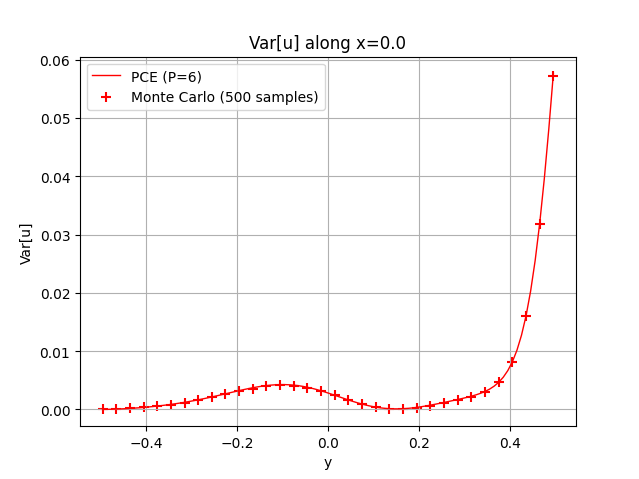
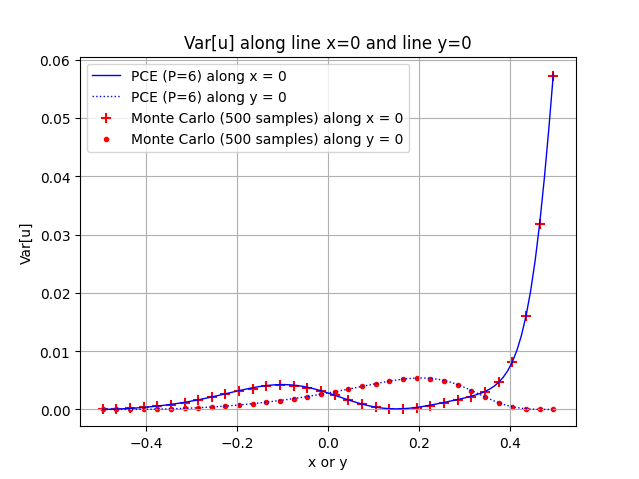
backup

diff --git a/pce-lid-cavity/show_result.py b/pce-lid-cavity/show_result.py
@@ -8,69 +8,100 @@ mc_df = pd.read_csv('data/mc-statistics.csv')
 
 points = pce_df[['x', 'y']].values
 
-x_plot = 0.0
-y_line = np.linspace(pce_df['y'].min(), pce_df['y'].max(), 100)
-x_line = np.full_like(y_line, x_plot)
-plot_points = np.column_stack((x_line, y_line))
+x_plot = 0
+y_plot = 0
+vy = np.linspace(pce_df['y'].min(), pce_df['y'].max(), 100)
+vx = np.full_like(vy, x_plot)
+vline = np.column_stack((vx, vy))
+hx = np.linspace(pce_df['x'].min(), pce_df['x'].max(), 100)
+hy = np.full_like(vx, y_plot)
+hline = np.column_stack((hx, hy))
 
-pce_u_mean = pce_df['u_mean'].values
-pce_u_mean_along_line = griddata(points, pce_u_mean, plot_points)
+def plot_variable(varname: str):
+    pce_var = pce_df[varname].values
+    pce_var_vline = griddata(points, pce_var, vline)
+    pce_var_hline = griddata(points, pce_var, hline)
 
-mc_u_mean = mc_df['u_mean'].values
-mc_u_mean_along_line = griddata(points, mc_u_mean, plot_points)
+    mc_var = mc_df[varname].values
+    mc_var_vline = griddata(points, mc_var, vline)
+    mc_var_hline = griddata(points, mc_var, hline)
 
-plt.figure()
-plt.plot(y_line, pce_u_mean_along_line, label='PCE (P=6)', linewidth=1)
-plt.scatter(y_line[::3], mc_u_mean_along_line[::3], label='Monte Carlo (500 samples)', marker='+', s=50)
-plt.xlabel('y')
-plt.ylabel('E[u]')
-plt.title(f'E[u] along x={x_plot}')
-plt.grid(True)
-plt.legend()
+    plt.figure()
+    plt.plot(vy, pce_var_vline, label=f'PCE (P=6) along x = {x_plot}', linewidth=1, color='blue')
+    plt.plot(hx, pce_var_hline, label=f'PCE (P=6) along y = {y_plot}', linewidth=1, color='blue', ls=':')
+    plt.scatter(vy[::3], mc_var_vline[::3], label=f'Monte Carlo (500 samples) along x = {x_plot}', marker='+', s=50, c='red')
+    plt.scatter(hx[::3], mc_var_hline[::3], label=f'Monte Carlo (500 samples) along y = {y_plot}', marker='.', c='red')
+    plt.xlabel('x or y')
+    plt.ylabel(varname)
+    plt.title(f'{varname} along line x={x_plot} and line y={y_plot}')
+    plt.grid(True)
+    plt.legend()
 
-pce_u_var = pce_df['u_var'].values
-pce_u_var_along_line = griddata(points, pce_u_var, plot_points)
+plot_variable('E[u]')
+plot_variable('Var[u]')
+plot_variable('E[v]')
+plot_variable('Var[v]')
 
-mc_u_var = mc_df['u_var'].values
-mc_u_var_along_line = griddata(points, mc_u_var, plot_points)
+# pce_u_mean = pce_df['u_mean'].values
+# pce_u_mean_vline = griddata(points, pce_u_mean, vline)
+# pce_u_mean_hline = griddata(points, pce_u_mean, hline)
 
-plt.figure()
-plt.plot(y_line, pce_u_var_along_line, label='PCE (P=6)', linewidth=1, color='red')
-plt.scatter(y_line[::3], mc_u_var_along_line[::3], label='Monte Carlo (500 samples)', marker='+', c='r', s=50)
-plt.xlabel('y')
-plt.ylabel('Var[u]')
-plt.title(f'Var[u] along x={x_plot}')
-plt.grid(True)
-plt.legend()
+# mc_u_mean = mc_df['u_mean'].values
+# mc_u_mean_vline = griddata(points, mc_u_mean, vline)
+# mc_u_mean_hline = griddata(points, )
 
-pce_v_mean = pce_df['v_mean'].values
-pce_v_mean_along_line = griddata(points, pce_v_mean, plot_points)
+# plt.figure()
+# plt.plot(y_line, pce_u_mean_along_line, label='PCE (P=6)', linewidth=1)
+# plt.scatter(y_line[::3], mc_u_mean_along_line[::3], label='Monte Carlo (500 samples)', marker='+', s=50)
+# plt.xlabel('y')
+# plt.ylabel('E[u]')
+# plt.title(f'E[u] along x={x_plot}')
+# plt.grid(True)
+# plt.legend()
 
-mc_v_mean = mc_df['v_mean'].values
-mc_v_mean_along_line = griddata(points, mc_v_mean, plot_points)
+# pce_u_var = pce_df['u_var'].values
+# pce_u_var_along_line = griddata(points, pce_u_var, plot_points)
 
-plt.figure()
-plt.plot(y_line, pce_v_mean_along_line, label='PCE (P=6)', linewidth=1, color='green')
-plt.scatter(y_line[::3], mc_v_mean_along_line[::3], label='Monte Carlo (500 samples)', marker='+', c='g', s=50)
-plt.xlabel('y')
-plt.ylabel('E[v]')
-plt.title(f'E[v] along x={x_plot}')
-plt.grid(True)
-plt.legend()
+# mc_u_var = mc_df['u_var'].values
+# mc_u_var_along_line = griddata(points, mc_u_var, plot_points)
 
-pce_v_var = pce_df['v_var'].values
-pce_v_var_along_line = griddata(points, pce_v_var, plot_points)
+# plt.figure()
+# plt.plot(y_line, pce_u_var_along_line, label='PCE (P=6)', linewidth=1, color='red')
+# plt.scatter(y_line[::3], mc_u_var_along_line[::3], label='Monte Carlo (500 samples)', marker='+', c='r', s=50)
+# plt.xlabel('y')
+# plt.ylabel('Var[u]')
+# plt.title(f'Var[u] along x={x_plot}')
+# plt.grid(True)
+# plt.legend()
 
-mc_v_var = mc_df['v_var'].values
-mc_v_var_along_line = griddata(points, mc_v_var, plot_points)
+# pce_v_mean = pce_df['v_mean'].values
+# pce_v_mean_along_line = griddata(points, pce_v_mean, plot_points)
 
-plt.figure()
-plt.plot(y_line, pce_v_var_along_line, label='PCE (P=6)', linewidth=1, color='black')
-plt.scatter(y_line[::3], mc_v_var_along_line[::3], label='Monte Carlo (500 samples)', marker='+', c='k', s=50)
-plt.xlabel('y')
-plt.ylabel('Var[v]')
-plt.title(f'Var[v] along x={x_plot}')
-plt.grid(True)
-plt.legend()
+# mc_v_mean = mc_df['v_mean'].values
+# mc_v_mean_along_line = griddata(points, mc_v_mean, plot_points)
+
+# plt.figure()
+# plt.plot(y_line, pce_v_mean_along_line, label='PCE (P=6)', linewidth=1, color='green')
+# plt.scatter(y_line[::3], mc_v_mean_along_line[::3], label='Monte Carlo (500 samples)', marker='+', c='g', s=50)
+# plt.xlabel('y')
+# plt.ylabel('E[v]')
+# plt.title(f'E[v] along x={x_plot}')
+# plt.grid(True)
+# plt.legend()
+
+# pce_v_var = pce_df['v_var'].values
+# pce_v_var_along_line = griddata(points, pce_v_var, plot_points)
+
+# mc_v_var = mc_df['v_var'].values
+# mc_v_var_along_line = griddata(points, mc_v_var, plot_points)
+
+# plt.figure()
+# plt.plot(y_line, pce_v_var_along_line, label='PCE (P=6)', linewidth=1, color='black')
+# plt.scatter(y_line[::3], mc_v_var_along_line[::3], label='Monte Carlo (500 samples)', marker='+', c='k', s=50)
+# plt.xlabel('y')
+# plt.ylabel('Var[v]')
+# plt.title(f'Var[v] along x={x_plot}')
+# plt.grid(True)
+# plt.legend()
 
 plt.show()
